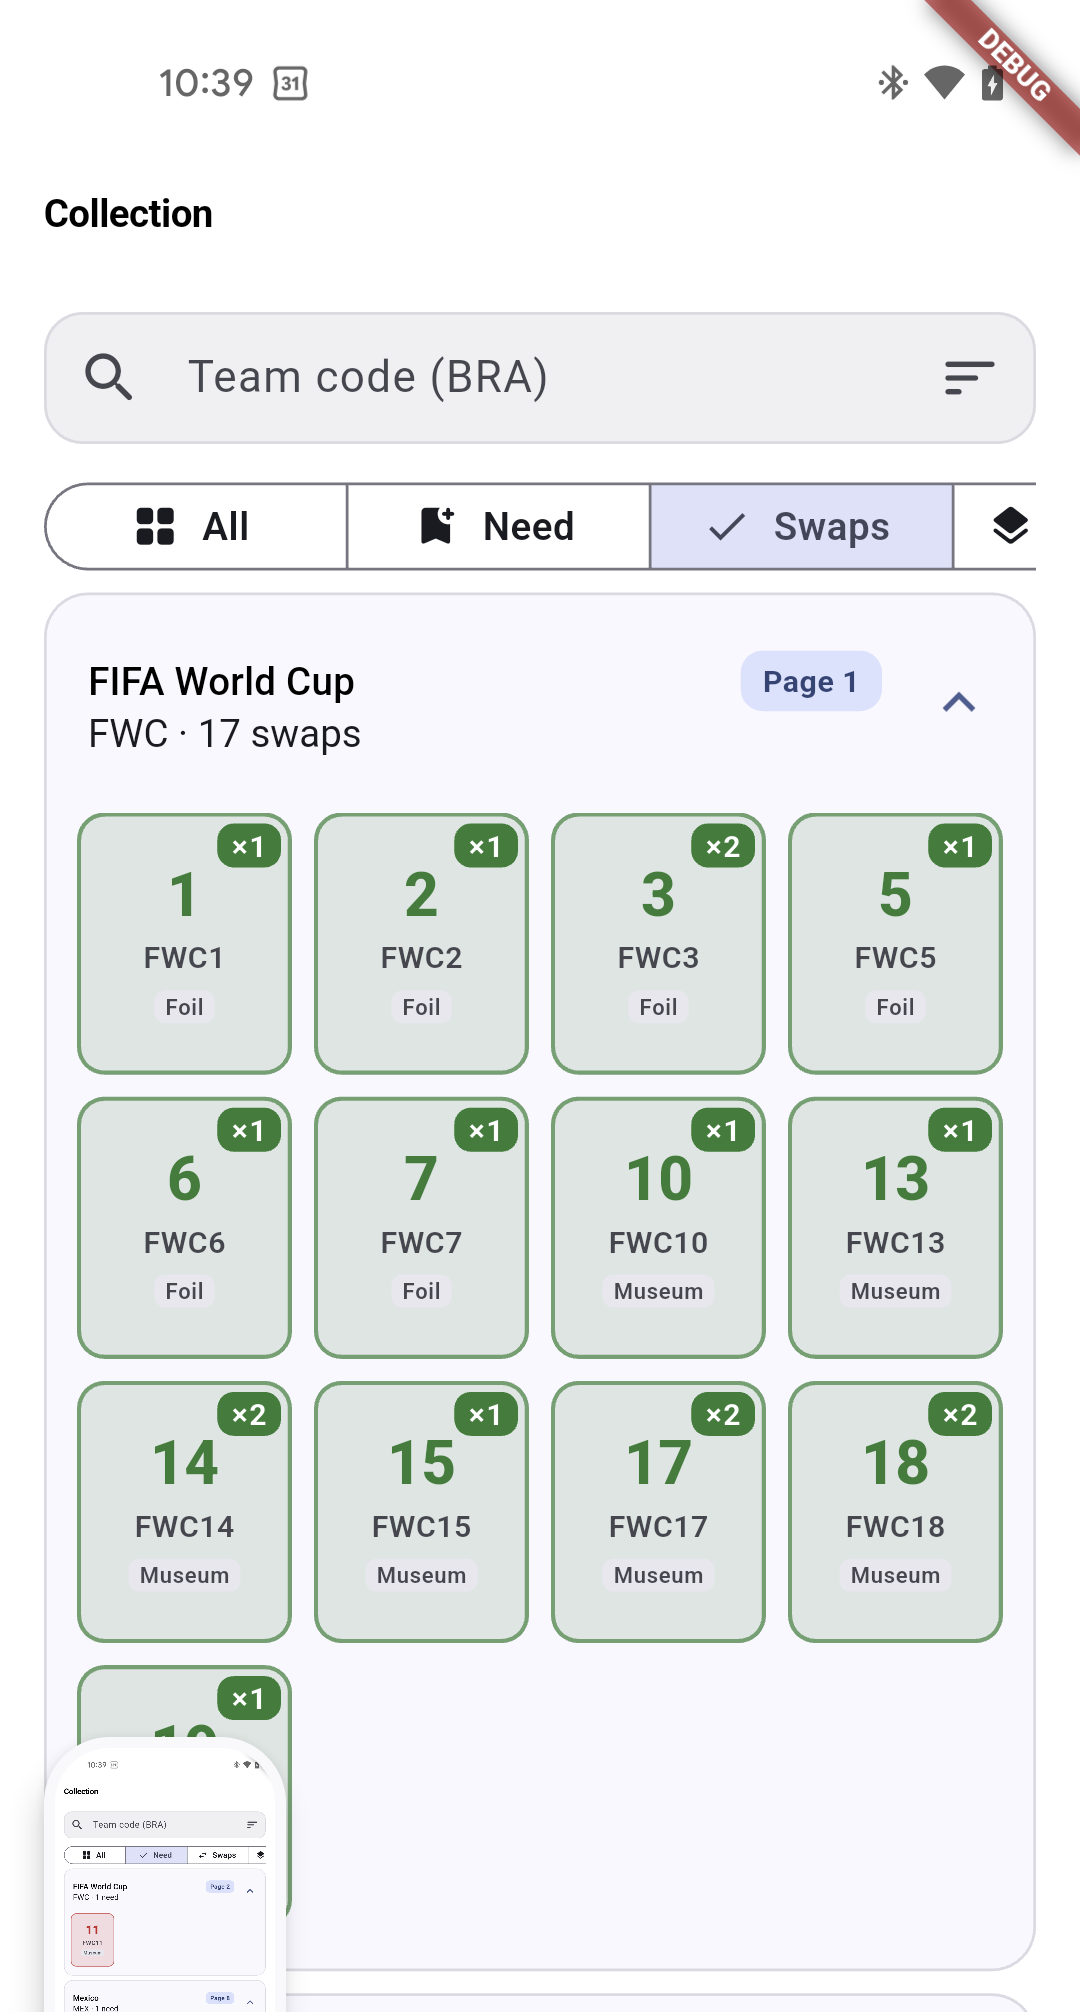
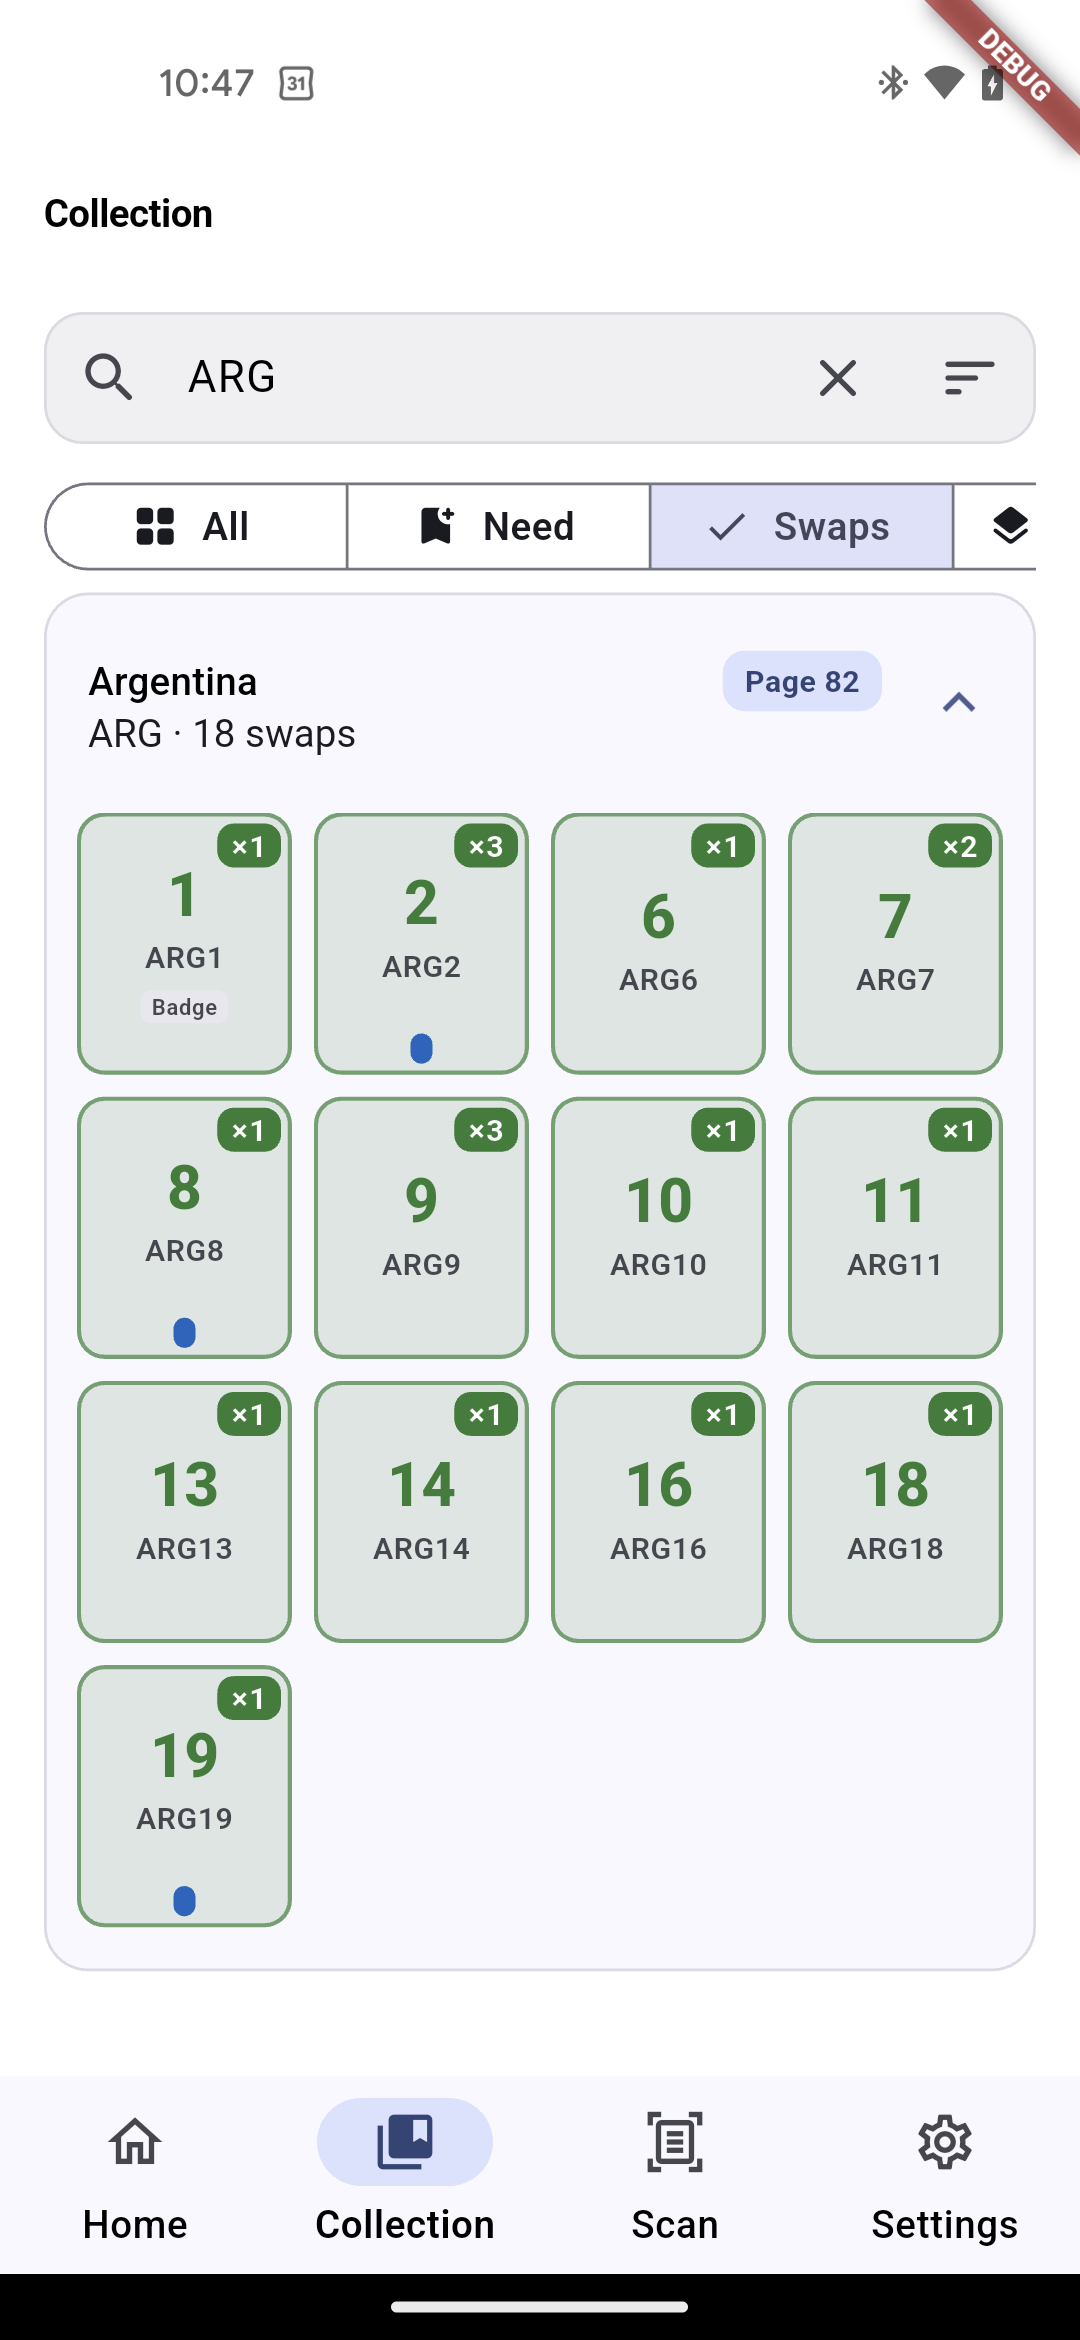
[docs] update README screenshots for better representation and add new vendor listing image

diff --git a/README.md b/README.md
@@ -45,23 +45,33 @@ Portrait-label OCR was chosen over generic empty-box detection because WC26 layo
 <table>
 <tr>
 <td align="center" width="33%">
+<a href="docs/screenshots/bra-scan-1.png"><img src="docs/screenshots/bra-scan-1.png" width="200" alt="Live scan — Brazil"/></a><br/>
+<sub>Scan BRA</sub>
+</td>
+<td align="center" width="33%">
+<a href="docs/screenshots/sui-scan-2.png"><img src="docs/screenshots/sui-scan-2.png" width="200" alt="Live scan — Switzerland"/></a><br/>
+<sub>Scan SUI</sub>
+</td>
+<td align="center" width="33%">
 <a href="docs/screenshots/home.png"><img src="docs/screenshots/home.png" width="200" alt="Home"/></a><br/>
 <sub>Home</sub>
-</td>
-<td align="center" width="33%">
-<a href="docs/screenshots/collection-team.png"><img src="docs/screenshots/collection-team.png" width="200" alt="Collection team grid"/></a><br/>
-<sub>Collection</sub>
-</td>
-<td align="center" width="33%">
-<a href="docs/screenshots/collection-edit.png"><img src="docs/screenshots/collection-edit.png" width="200" alt="Sticker edit sheet"/></a><br/>
-<sub>Card edit</sub>
 </td>
 </tr>
 <tr>
 <td align="center">
+<a href="docs/screenshots/collection-team.png"><img src="docs/screenshots/collection-team.png" width="200" alt="Collection team grid"/></a><br/>
+<sub>Collection</sub>
+</td>
+<td align="center">
+<a href="docs/screenshots/collection-edit.png"><img src="docs/screenshots/collection-edit.png" width="200" alt="Sticker edit sheet"/></a><br/>
+<sub>Card edit</sub>
+</td>
+<td align="center">
 <a href="docs/screenshots/collection-need.png"><img src="docs/screenshots/collection-need.png" width="200" alt="Collection need filter"/></a><br/>
 <sub>Need</sub>
 </td>
+</tr>
+<tr>
 <td align="center">
 <a href="docs/screenshots/collection-swaps.png"><img src="docs/screenshots/collection-swaps.png" width="200" alt="Collection swaps filter"/></a><br/>
 <sub>Swaps</sub>
@@ -70,17 +80,10 @@ Portrait-label OCR was chosen over generic empty-box detection because WC26 layo
 <a href="docs/screenshots/collection-parallels.png"><img src="docs/screenshots/collection-parallels.png" width="200" alt="Collection parallels filter"/></a><br/>
 <sub>Parallels</sub>
 </td>
-</tr>
-<tr>
 <td align="center">
-<a href="docs/screenshots/bra-scan-1.png"><img src="docs/screenshots/bra-scan-1.png" width="200" alt="Live scan — Brazil"/></a><br/>
-<sub>Scan BRA</sub>
+<a href="docs/screenshots/vendor-listing.png"><img src="docs/screenshots/vendor-listing.png" width="200" alt="Check vendor listing"/></a><br/>
+<sub>Vendor listing</sub>
 </td>
-<td align="center">
-<a href="docs/screenshots/sui-scan-2.png"><img src="docs/screenshots/sui-scan-2.png" width="200" alt="Live scan — Switzerland"/></a><br/>
-<sub>Scan SUI</sub>
-</td>
-<td></td>
 </tr>
 </table>
 
